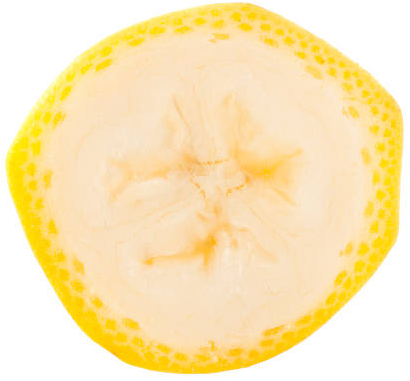
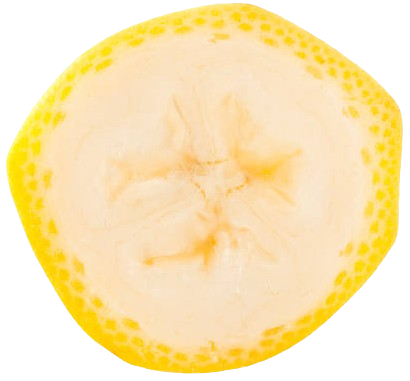
update

diff --git a/assets/css/styles.css b/assets/css/styles.css
@@ -84,7 +84,7 @@ common-layout {
   display: flex;
   align-items: center;
   margin-bottom: 14px;
-  padding: 0 23px;
+  padding: 0 20px;
 }
 
 .logo a {
@@ -92,7 +92,7 @@ common-layout {
 }
 
 .logo img {
-  max-width: 65px;
+  max-width: 70px;
   height: auto;
   display: block;
   object-fit: contain;
@@ -127,7 +127,7 @@ common-layout {
 .nav-parent-link {
   display: block;
   color: #111;
-  padding: 6px 23px;
+  padding: 6px 28px;
   font-size: 1rem;
   font-weight: 600;
   cursor: default;
@@ -137,7 +137,7 @@ common-layout {
   display: flex;
   flex-direction: column;
   list-style: none;
-  padding-left: 45px;
+  padding-left: 53px;
   margin-top: 2px;
   margin-bottom: 6px;
   gap: 2px;
@@ -151,6 +151,111 @@ common-layout {
   font-weight: 400;
   position: relative;
   transition: color 0.2s ease;
+}
+
+.menu-toggle-btn {
+  background: transparent;
+  border: none;
+  padding: 0;
+  cursor: pointer;
+  position: relative; /* 자식 요소(아이콘 박스)의 절대 위치 기준점 */
+  display: inline-block;
+  width: auto;
+}
+
+.menu-toggle-btn .logo {
+  display: block;
+}
+
+.hamburger-icon-box {
+  position: absolute;
+  top: 0;
+  left: 0;
+  width: 100%;
+  height: 100%;
+  background: transparent; /* 배경 투명 */
+  display: flex;
+  align-items: center;
+  justify-content: center; /* 로고 정가운데 정렬 */
+  pointer-events: none;    /* 클릭 이벤트가 부모 버튼으로 자연스럽게 전달되도록 설정 */
+}
+
+.hamburger-icon-box svg {
+  stroke: #4f3d3c; /* 원하는 색상 코드로 변경 */
+}
+
+/* 닫기(X) 아이콘 크기 키우기 */
+.hamburger-icon-box .icon-close svg {
+  width: 30px;   /* 원하는 크기로 변경 (기본 24px) */
+  height: 30px;  /* 원하는 크기로 변경 (기본 24px) */
+}
+
+.hamburger-icon-box .icon-hamburger,
+.hamburger-icon-box .icon-close {
+  position: absolute;
+  display: flex;
+  align-items: center;
+  justify-content: center;
+  background: transparent;
+  transition: opacity 0.2s ease; /* opacity만을 사용한 애니메이션 */
+}
+
+.hamburger-icon-box .icon-hamburger {
+  opacity: 1;
+}
+
+.hamburger-icon-box .icon-close {
+  opacity: 0;
+}
+
+/* 메뉴가 열렸을 때 아이콘 전환 (opacity 활용) */
+.navbar.menu-open .hamburger-icon-box .icon-hamburger {
+  opacity: 0;
+}
+
+.navbar.menu-open .hamburger-icon-box .icon-close {
+  opacity: 1;
+}
+
+/* nav-links 기본 숨김 처리 및 opacity 애니메이션 적용 */
+.navbar .nav-links-wrapper {
+  opacity: 0;
+  visibility: hidden;
+  pointer-events: none;
+  transition: opacity 0.2s ease;
+}
+
+.navbar.menu-open .nav-links-wrapper {
+  opacity: 1;
+  visibility: visible;
+  pointer-events: auto;
+}
+
+.menu-bg-overlay {
+  position: fixed;
+  top: 0;
+  left: 0;
+  width: 100vw;
+  height: 100vh;
+  background-color: rgba(255, 255, 255, 0.9); /* 반투명한 흰색 배경 */
+  z-index: 1000;
+  opacity: 0;
+  visibility: hidden;
+  pointer-events: none;
+  transition: opacity 0.2s ease; /* 오직 opacity 속성만 애니메이션 적용 */
+}
+
+.navbar.menu-open .menu-bg-overlay {
+  opacity: 1;
+  visibility: visible;
+  pointer-events: auto;
+}
+
+/* 오버레이 위로 로고/버튼과 내비게이션 링크가 오도록 z-index 설정 */
+.sidebar-top,
+.nav-links-wrapper {
+  position: relative;
+  z-index: 1002;
 }
 
 .main-wrapper {
@@ -208,7 +313,7 @@ body.page-favs .container {
   margin: 60px auto 20px auto;
   padding: 1.4rem 2rem;
   text-align: center;
-  color: #56403e;
+  color: #4f3d3c;
   font-size: 1rem;
   line-height: 1.6;
 }
@@ -231,7 +336,7 @@ body.page-favs .container {
   bottom: 0;
   width: 100%;
   background-color: none;
-  z-index: 200;
+  z-index: 2000;
   text-align: left;
   padding: 20px;
   color: #999;
@@ -470,7 +575,7 @@ body.page-ocs .crop-square .card-thumb {
   box-sizing: border-box;
   opacity: 0;
   visibility: hidden;
-  transition: opacity 0.3s ease-in-out, visibility 0.3s ease-in-out;
+  transition: opacity 0.2s ease-in-out, visibility 0.2s ease-in-out;
 }
 
 .oc-modal {
@@ -773,6 +878,12 @@ body.page-ocs .crop-square .card-thumb {
   row-gap: 40px;
   margin-top: 80px;
   padding: 0 0px;
+}
+
+@media (min-width: 480px) {
+  #favs-list {
+    grid-template-columns: repeat(2, 1fr);
+  }
 }
 
 @media (min-width: 768px) {

diff --git a/assets/js/common.js b/assets/js/common.js
@@ -26,7 +26,7 @@ class CommonLayout extends HTMLElement {
         const isPagesFolder = window.location.pathname.includes('/pages/');
 
         const indexPath = isPagesFolder ? '../index.html' : 'index.html';
-        const logoPath = isPagesFolder ? '../assets/images/banana.gif' : 'assets/images/banana.gif';
+        const logoPath = isPagesFolder ? '../assets/images/banana.png' : 'assets/images/banana.png';
 
         const worldsPath = isPagesFolder ? 'worlds.html' : 'pages/worlds.html';
         const ocsPath = isPagesFolder ? 'ocs.html' : 'pages/ocs.html';
@@ -34,6 +34,7 @@ class CommonLayout extends HTMLElement {
         const favsPath = isPagesFolder ? 'favs.html' : 'pages/favs.html';
 
         const navItems = [
+            { name: '홈', herf: indexPath },
             {
                 name: '1차 창작',
                 children: [
@@ -83,13 +84,22 @@ class CommonLayout extends HTMLElement {
         this.innerHTML = `
             <div class="layout-container">
                 <nav class="navbar">
+                    <div class="menu-bg-overlay"></div>
                     <div class="sidebar-top">
-                        <div class="logo">
-                            <a href="${indexPath}">
+                        <button type="button" class="menu-toggle-btn" aria-label="메뉴 토글">
+                            <div class="logo">
                                 <img src="${logoPath}" alt="로고" onerror="this.style.display='none'; this.nextElementSibling.style.display='block';">
                                 <span class="logo-fallback-text">창작</span>
-                            </a>
-                        </div>
+                            </div>
+                            <div class="hamburger-icon-box">
+                                <span class="icon-hamburger">
+                                    <svg width="24" height="24" viewBox="0 0 24 24" fill="none" stroke="currentColor" stroke-width="2" stroke-linecap="round"><line x1="3" y1="12" x2="21" y2="12"></line><line x1="3" y1="6" x2="21" y2="6"></line><line x1="3" y1="18" x2="21" y2="18"></line></svg>
+                                </span>
+                                <span class="icon-close">
+                                    <svg width="24" height="24" viewBox="0 0 24 24" fill="none" stroke="currentColor" stroke-width="2" stroke-linecap="round"><line x1="18" y1="6" x2="6" y2="18"></line><line x1="6" y1="6" x2="18" y2="18"></line></svg>
+                                </span>
+                            </div>
+                        </button>
                     </div>
                     <div class="nav-links-wrapper">
                         <ul class="nav-links">
@@ -107,6 +117,15 @@ class CommonLayout extends HTMLElement {
             </div>
         `;
 
+        // 메뉴 토글 이벤트 리스너 연결
+        const navbar = this.querySelector('.navbar');
+        const menuToggleBtn = this.querySelector('.menu-toggle-btn');
+        if (menuToggleBtn && navbar) {
+            menuToggleBtn.addEventListener('click', () => {
+                navbar.classList.toggle('menu-open');
+            });
+        }
+
         const mainContent = this.querySelector('.content-body');
         originalChildren.forEach(node => {
             mainContent.appendChild(node);
@@ -118,7 +137,6 @@ class CommonLayout extends HTMLElement {
             headerH1.remove();
         }
 
-        // 웹 컴포넌트 마운트 완료 후 앱 초기화 함수 호출 안전장치
         if (typeof window.loadGallery === 'function') {
             window.loadGallery();
         }
